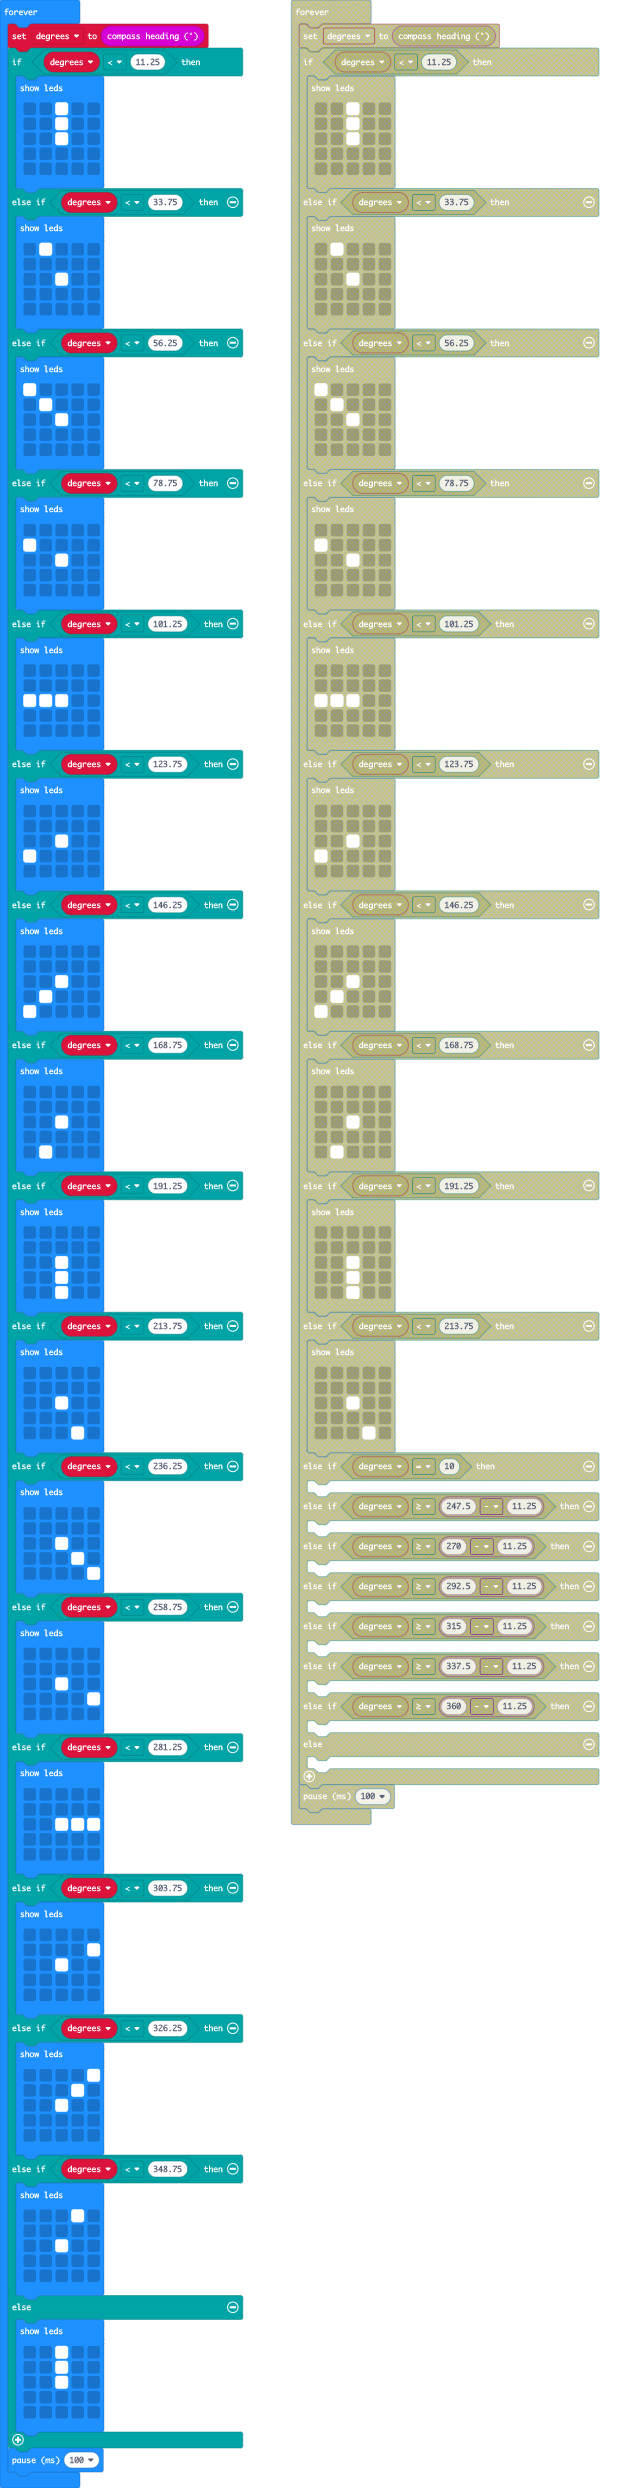
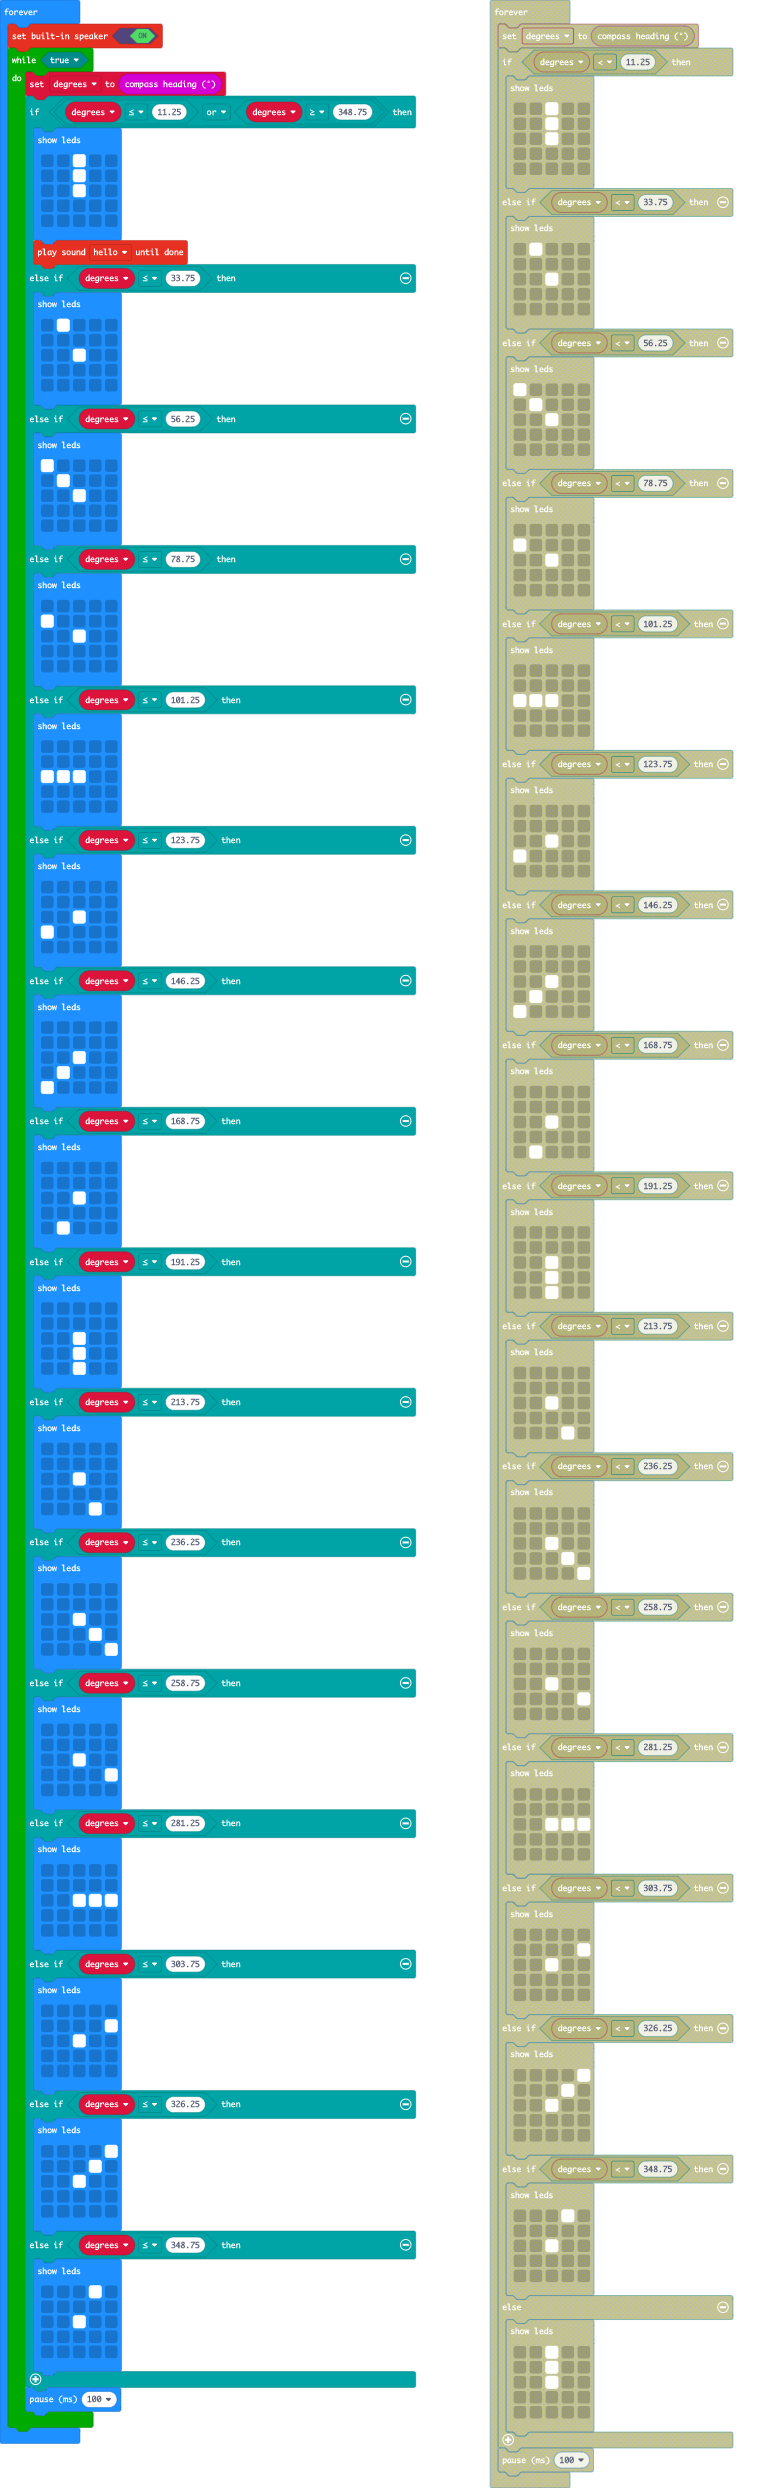
Play a tune on a V2 microbit when you are facing North

diff --git a/main.ts b/main.ts
@@ -1,142 +1,138 @@
 let degrees = 0
 basic.forever(function () {
-    degrees = input.compassHeading()
-    if (degrees < 11.25) {
-        basic.showLeds(`
-            . . # . .
-            . . # . .
-            . . # . .
-            . . . . .
-            . . . . .
-            `)
-    } else if (degrees < 33.75) {
-        basic.showLeds(`
-            . # . . .
-            . . . . .
-            . . # . .
-            . . . . .
-            . . . . .
-            `)
-    } else if (degrees < 56.25) {
-        basic.showLeds(`
-            # . . . .
-            . # . . .
-            . . # . .
-            . . . . .
-            . . . . .
-            `)
-    } else if (degrees < 78.75) {
-        basic.showLeds(`
-            . . . . .
-            # . . . .
-            . . # . .
-            . . . . .
-            . . . . .
-            `)
-    } else if (degrees < 101.25) {
-        basic.showLeds(`
-            . . . . .
-            . . . . .
-            # # # . .
-            . . . . .
-            . . . . .
-            `)
-    } else if (degrees < 123.75) {
-        basic.showLeds(`
-            . . . . .
-            . . . . .
-            . . # . .
-            # . . . .
-            . . . . .
-            `)
-    } else if (degrees < 146.25) {
-        basic.showLeds(`
-            . . . . .
-            . . . . .
-            . . # . .
-            . # . . .
-            # . . . .
-            `)
-    } else if (degrees < 168.75) {
-        basic.showLeds(`
-            . . . . .
-            . . . . .
-            . . # . .
-            . . . . .
-            . # . . .
-            `)
-    } else if (degrees < 191.25) {
-        basic.showLeds(`
-            . . . . .
-            . . . . .
-            . . # . .
-            . . # . .
-            . . # . .
-            `)
-    } else if (degrees < 213.75) {
-        basic.showLeds(`
-            . . . . .
-            . . . . .
-            . . # . .
-            . . . . .
-            . . . # .
-            `)
-    } else if (degrees < 236.25) {
-        basic.showLeds(`
-            . . . . .
-            . . . . .
-            . . # . .
-            . . . # .
-            . . . . #
-            `)
-    } else if (degrees < 258.75) {
-        basic.showLeds(`
-            . . . . .
-            . . . . .
-            . . # . .
-            . . . . #
-            . . . . .
-            `)
-    } else if (degrees < 281.25) {
-        basic.showLeds(`
-            . . . . .
-            . . . . .
-            . . # # #
-            . . . . .
-            . . . . .
-            `)
-    } else if (degrees < 303.75) {
-        basic.showLeds(`
-            . . . . .
-            . . . . #
-            . . # . .
-            . . . . .
-            . . . . .
-            `)
-    } else if (degrees < 326.25) {
-        basic.showLeds(`
-            . . . . #
-            . . . # .
-            . . # . .
-            . . . . .
-            . . . . .
-            `)
-    } else if (degrees < 348.75) {
-        basic.showLeds(`
-            . . . # .
-            . . . . .
-            . . # . .
-            . . . . .
-            . . . . .
-            `)
-    } else {
-        basic.showLeds(`
-            . . # . .
-            . . # . .
-            . . # . .
-            . . . . .
-            . . . . .
-            `)
+    music.setBuiltInSpeakerEnabled(true)
+    while (true) {
+        degrees = input.compassHeading()
+        if (degrees <= 11.25 || degrees >= 348.75) {
+            basic.showLeds(`
+                . . # . .
+                . . # . .
+                . . # . .
+                . . . . .
+                . . . . .
+                `)
+            soundExpression.hello.playUntilDone()
+        } else if (degrees <= 33.75) {
+            basic.showLeds(`
+                . # . . .
+                . . . . .
+                . . # . .
+                . . . . .
+                . . . . .
+                `)
+        } else if (degrees <= 56.25) {
+            basic.showLeds(`
+                # . . . .
+                . # . . .
+                . . # . .
+                . . . . .
+                . . . . .
+                `)
+        } else if (degrees <= 78.75) {
+            basic.showLeds(`
+                . . . . .
+                # . . . .
+                . . # . .
+                . . . . .
+                . . . . .
+                `)
+        } else if (degrees <= 101.25) {
+            basic.showLeds(`
+                . . . . .
+                . . . . .
+                # # # . .
+                . . . . .
+                . . . . .
+                `)
+        } else if (degrees <= 123.75) {
+            basic.showLeds(`
+                . . . . .
+                . . . . .
+                . . # . .
+                # . . . .
+                . . . . .
+                `)
+        } else if (degrees <= 146.25) {
+            basic.showLeds(`
+                . . . . .
+                . . . . .
+                . . # . .
+                . # . . .
+                # . . . .
+                `)
+        } else if (degrees <= 168.75) {
+            basic.showLeds(`
+                . . . . .
+                . . . . .
+                . . # . .
+                . . . . .
+                . # . . .
+                `)
+        } else if (degrees <= 191.25) {
+            basic.showLeds(`
+                . . . . .
+                . . . . .
+                . . # . .
+                . . # . .
+                . . # . .
+                `)
+        } else if (degrees <= 213.75) {
+            basic.showLeds(`
+                . . . . .
+                . . . . .
+                . . # . .
+                . . . . .
+                . . . # .
+                `)
+        } else if (degrees <= 236.25) {
+            basic.showLeds(`
+                . . . . .
+                . . . . .
+                . . # . .
+                . . . # .
+                . . . . #
+                `)
+        } else if (degrees <= 258.75) {
+            basic.showLeds(`
+                . . . . .
+                . . . . .
+                . . # . .
+                . . . . #
+                . . . . .
+                `)
+        } else if (degrees <= 281.25) {
+            basic.showLeds(`
+                . . . . .
+                . . . . .
+                . . # # #
+                . . . . .
+                . . . . .
+                `)
+        } else if (degrees <= 303.75) {
+            basic.showLeds(`
+                . . . . .
+                . . . . #
+                . . # . .
+                . . . . .
+                . . . . .
+                `)
+        } else if (degrees <= 326.25) {
+            basic.showLeds(`
+                . . . . #
+                . . . # .
+                . . # . .
+                . . . . .
+                . . . . .
+                `)
+        } else if (degrees <= 348.75) {
+            basic.showLeds(`
+                . . . # .
+                . . . . .
+                . . # . .
+                . . . . .
+                . . . . .
+                `)
+        }
+        basic.pause(100)
     }
-    basic.pause(100)
 })
